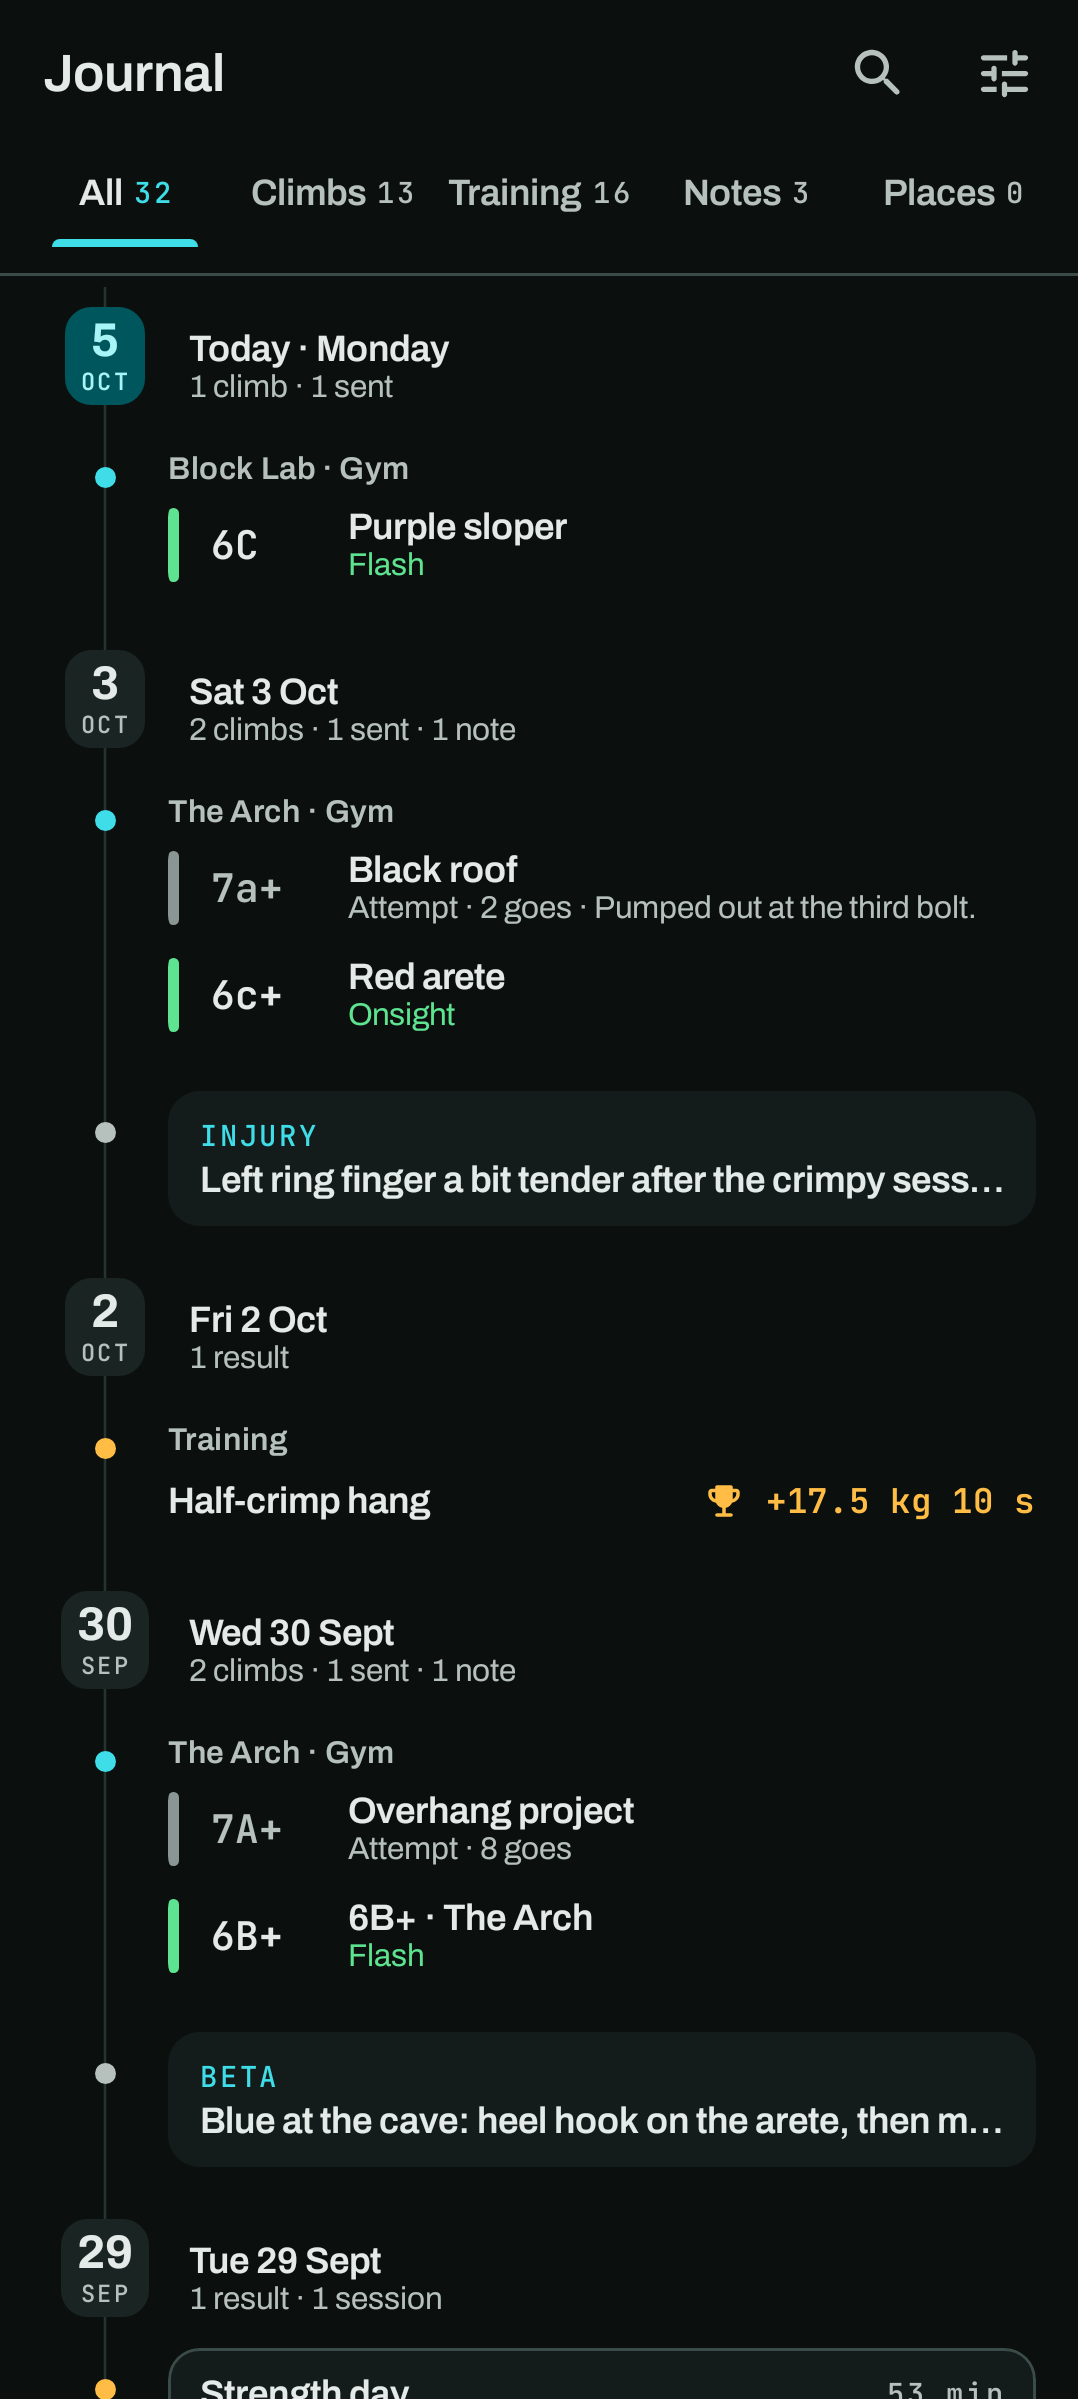
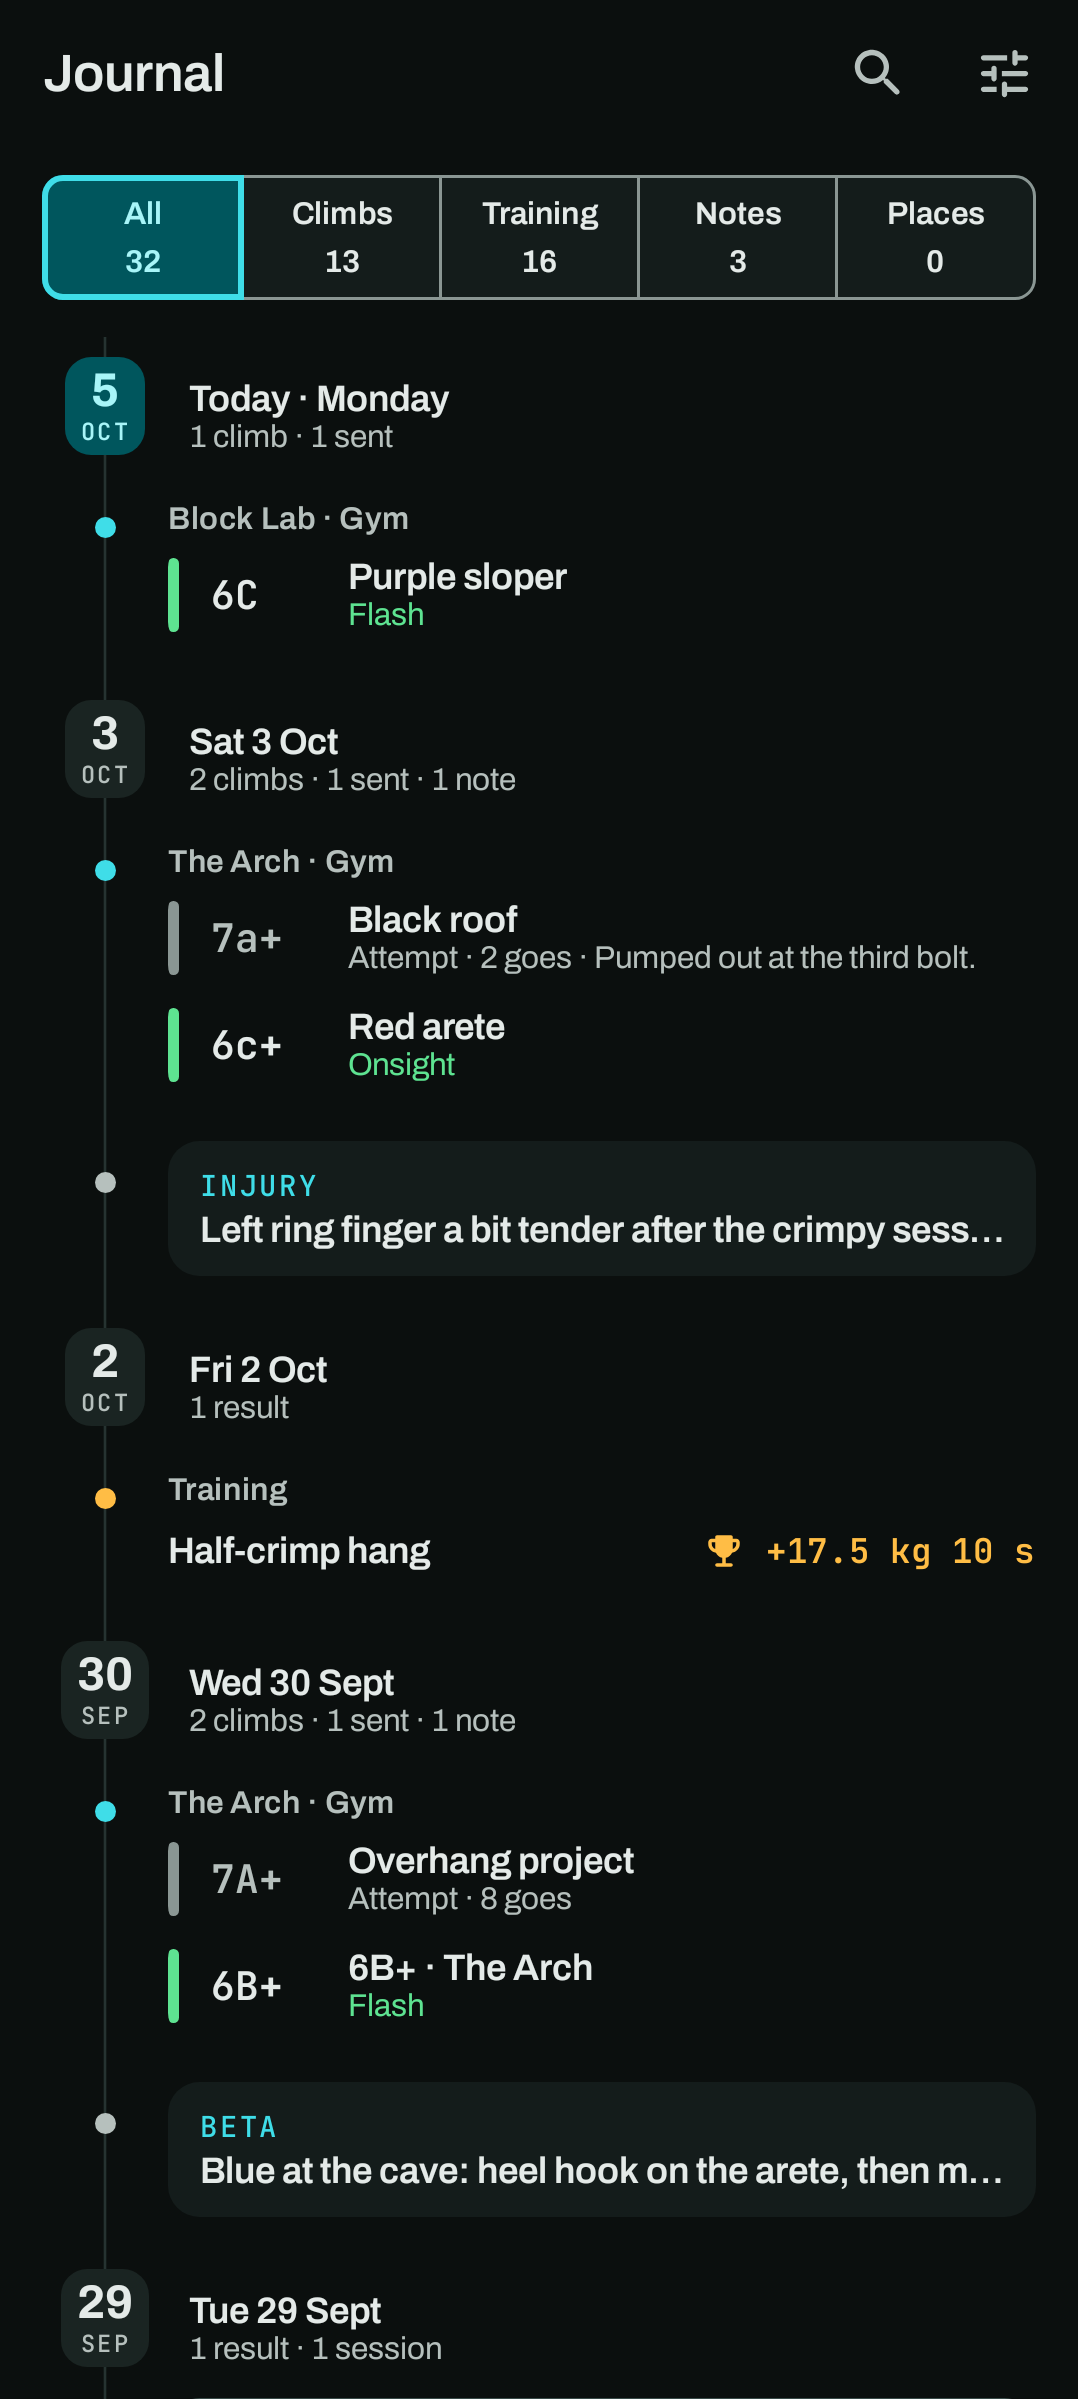
Journal: Train's segmented tabs and plain list swaps, with counts kept

diff --git a/app/src/main/java/com/hardtekpt/crux/ui/journal/JournalScreen.kt b/app/src/main/java/com/hardtekpt/crux/ui/journal/JournalScreen.kt
@@ -90,6 +90,7 @@ import com.hardtekpt.crux.ui.components.AnimatedCount
 import com.hardtekpt.crux.ui.components.CruxButton
 import com.hardtekpt.crux.ui.components.CruxFilterChip
 import com.hardtekpt.crux.ui.components.CruxMotion
+import com.hardtekpt.crux.ui.components.CruxSegmentedButtons
 import com.hardtekpt.crux.ui.components.CruxSheet
 import com.hardtekpt.crux.ui.components.CruxTopAppBar
 import com.hardtekpt.crux.ui.components.EmptyState
@@ -310,7 +311,16 @@ fun JournalContent(
             )
             return
         }
-        TypeTabs(uiState, placeCount = places?.size ?: 0, onSelect = { kind -> onQuery { it.copy(kind = kind) } })
+        // The same tabs as Train: segmented buttons, and the list swaps without animation.
+        CruxSegmentedButtons(
+            options = JournalFilter.entries,
+            selected = uiState.query.kind,
+            label = { option -> "${option.label}\n${if (option == JournalFilter.Places) places?.size ?: 0 else uiState.counts[option] ?: 0}" },
+            onSelect = { kind -> onQuery { it.copy(kind = kind) } },
+            modifier = Modifier.padding(horizontal = space.s4, vertical = space.s2),
+            tagOf = { "journal_filter_${it.name}" },
+            compact = true,
+        )
         // Places: the gyms, crags and boards you climb at, with New place, in place of the timeline.
         if (uiState.query.kind == JournalFilter.Places) {
             LazyColumn(
@@ -349,19 +359,14 @@ fun JournalContent(
             }
             uiState.days.forEach { day ->
                 item(key = "day_${day.date}", contentType = "day") {
-                    Box(Modifier.animateItem(fadeInSpec = CruxMotion.medium(), placementSpec = CruxMotion.medium(), fadeOutSpec = CruxMotion.fast())) {
-                        DayHeader(day, today = day.date == uiState.today)
-                    }
+                    DayHeader(day, today = day.date == uiState.today)
                 }
                 items(day.entries, key = { it.key }, contentType = { it::class }) { entry ->
-                    // Entries slide into place and fade when a tab, search or filter changes the list.
-                    Box(Modifier.animateItem(fadeInSpec = CruxMotion.medium(), placementSpec = CruxMotion.medium(), fadeOutSpec = CruxMotion.fast())) {
-                        when (entry) {
-                            is TimelineEntry.Climbs -> ClimbsEntry(entry.day, actions.openClimb, selection)
-                            is TimelineEntry.Training -> TrainingEntry(entry, actions.openRecords)
-                            is TimelineEntry.SessionEntry -> SessionEntryRow(entry.session, actions.openClimb) { actions.openSession(entry.session.id) }
-                            is TimelineEntry.NoteEntry -> NoteEntry(entry.note, selection) { actions.openNote(entry.note.id) }
-                        }
+                    when (entry) {
+                        is TimelineEntry.Climbs -> ClimbsEntry(entry.day, actions.openClimb, selection)
+                        is TimelineEntry.Training -> TrainingEntry(entry, actions.openRecords)
+                        is TimelineEntry.SessionEntry -> SessionEntryRow(entry.session, actions.openClimb) { actions.openSession(entry.session.id) }
+                        is TimelineEntry.NoteEntry -> NoteEntry(entry.note, selection) { actions.openNote(entry.note.id) }
                     }
                 }
             }
@@ -464,74 +469,6 @@ private fun daySummary(day: TimelineDay): String {
         notes.takeIf { it > 0 }?.let { "$it ${if (it == 1) "note" else "notes"}" },
         sessions.takeIf { it > 0 }?.let { "$it ${if (it == 1) "session" else "sessions"}" },
     ).joinToString(" · ")
-}
-
-/** The four types as equal tabs with live counts, the picked one underlined. */
-@Composable
-private fun TypeTabs(uiState: JournalUiState, placeCount: Int = 0, onSelect: (JournalFilter) -> Unit) {
-    val colors = MaterialTheme.colorScheme
-    Column {
-        Row(
-            modifier = Modifier
-                .fillMaxWidth()
-                .padding(horizontal = CruxTheme.space.s2)
-                .selectableGroup()
-                .testTag("journal_filters"),
-        ) {
-            JournalFilter.entries.forEach { option ->
-                val selected = option == uiState.query.kind
-                Column(
-                    horizontalAlignment = Alignment.CenterHorizontally,
-                    modifier = Modifier
-                        .weight(1f)
-                        .heightIn(min = 48.dp)
-                        .selectable(selected = selected, role = Role.Tab, onClick = { onSelect(option) })
-                        .testTag("journal_filter_${option.name}"),
-                ) {
-                    Row(
-                        verticalAlignment = Alignment.CenterVertically,
-                        horizontalArrangement = Arrangement.spacedBy(4.dp),
-                        modifier = Modifier.padding(top = 10.dp, bottom = 10.dp),
-                    ) {
-                        val label by androidx.compose.animation.animateColorAsState(
-                            if (selected) colors.onSurface else colors.onSurfaceVariant,
-                            CruxMotion.fast(),
-                            label = "tab",
-                        )
-                        val count by androidx.compose.animation.animateColorAsState(
-                            if (selected) colors.primary else colors.onSurfaceVariant,
-                            CruxMotion.fast(),
-                            label = "tabCount",
-                        )
-                        Text(option.label, style = MaterialTheme.typography.titleSmall, color = label, maxLines = 1)
-                        AnimatedCount(
-                            (if (option == JournalFilter.Places) placeCount else uiState.counts[option] ?: 0).toString(),
-                            style = MonoLabel,
-                            color = count,
-                        )
-                    }
-                    val underline by androidx.compose.animation.animateColorAsState(
-                        if (selected) colors.primary else Color.Transparent,
-                        CruxMotion.fast(),
-                        label = "underline",
-                    )
-                    val width by androidx.compose.animation.core.animateFloatAsState(
-                        if (selected) 0.7f else 0.2f,
-                        CruxMotion.medium(),
-                        label = "underlineWidth",
-                    )
-                    Box(
-                        Modifier
-                            .fillMaxWidth(width)
-                            .height(3.dp)
-                            .clip(RoundedCornerShape(topStart = 3.dp, topEnd = 3.dp))
-                            .background(underline),
-                    )
-                }
-            }
-        }
-        Box(Modifier.fillMaxWidth().height(CruxTheme.size.borderHairline).background(colors.outlineVariant))
-    }
 }
 
 /** What the sheet has set, each as a chip that removes itself, then Clear all. */

diff --git a/app/src/main/java/com/hardtekpt/crux/ui/components/Inputs.kt b/app/src/main/java/com/hardtekpt/crux/ui/components/Inputs.kt
@@ -166,11 +166,23 @@ private fun Swatch(on: Boolean, color: Color, label: String, onClick: () -> Unit
     }
 }
 
-/** Two to four views of the same thing; exactly one is selected. */
+/** Two to five views of the same thing; exactly one is selected. */
 @Composable
-fun <T> CruxSegmentedButtons(options: List<T>, selected: T, label: (T) -> String, onSelect: (T) -> Unit, modifier: Modifier = Modifier) {
+fun <T> CruxSegmentedButtons(
+    options: List<T>,
+    selected: T,
+    label: (T) -> String,
+    onSelect: (T) -> Unit,
+    modifier: Modifier = Modifier,
+    /** The test tag of a segment, when its label changes (a count in it). */
+    tagOf: (T) -> String = { "segment_${label(it)}" },
+    /** For rows of five: the label may use two lines (a name over a count) at one size, with a taller row. */
+    compact: Boolean = false,
+) {
     val colors = MaterialTheme.colorScheme
-    SingleChoiceSegmentedButtonRow(modifier = modifier.fillMaxWidth().height(CruxTheme.size.controlHeight)) {
+    SingleChoiceSegmentedButtonRow(
+        modifier = modifier.fillMaxWidth().height(if (compact) CruxTheme.size.controlHeight + 12.dp else CruxTheme.size.controlHeight),
+    ) {
         options.forEachIndexed { index, option ->
             SegmentedButton(
                 selected = option == selected,
@@ -198,9 +210,13 @@ fun <T> CruxSegmentedButtons(options: List<T>, selected: T, label: (T) -> String
                 // Large text sizes shrink a long label to fit rather than cut it off.
                 label = {
                     val style = MaterialTheme.typography.labelLarge
-                    Text(label(option), style = style, maxLines = 1, autoSize = TextAutoSize.StepBased(minFontSize = 8.sp, maxFontSize = style.fontSize))
+                    if (compact) {
+                        Text(label(option), style = style.copy(fontSize = 12.sp), maxLines = 2, textAlign = androidx.compose.ui.text.style.TextAlign.Center)
+                    } else {
+                        Text(label(option), style = style, maxLines = 1, autoSize = TextAutoSize.StepBased(minFontSize = 8.sp, maxFontSize = style.fontSize))
+                    }
                 },
-                modifier = Modifier.testTag("segment_${label(option)}"),
+                modifier = Modifier.testTag(tagOf(option)),
             )
         }
     }

diff --git a/CHANGELOG.md b/CHANGELOG.md
@@ -31,6 +31,7 @@ and versions follow [Semantic Versioning](https://semver.org/). Each release als
 
 ### Changed
 
+- **Journal tabs work like Train's**: the Journal's tabs are now the same segmented buttons as Train, still with their counts, and the list swaps without the sliding and fading. Swiping sideways still moves between them.
 - **Weight only on Measurements**: the weight card is gone from the You page, since it is on Measurements. The Measurements row in More about you now shows your latest weight and how it moved.
 - **New name and icon**: the app is now **Climb Logger**, with a new icon of a mountain and a rising progress line (it has a themed version for Android 13+). The package is the same, so it installs over the old app and your data is untouched.
 - **Choose a climb in Log climb**: the climb chips under Name are gone. A **Choose a climb** button opens a sheet

diff --git a/docs/user/journal.md b/docs/user/journal.md
@@ -14,7 +14,7 @@ with **New place**; tap one to open it. See [Places](places.md).
 
 Days run newest first, each with a date tile and a tally; today's tile is filled in the accent.
 
-- **Tabs**: *All*, *Climbs*, *Training* or *Notes*, each with a count. Swipe sideways to move
+- **Tabs**: *All*, *Climbs*, *Training*, *Notes* or *Places*, each with a count, as segmented buttons like Train's. Swipe sideways to move
   between them.
 - **Search** (the magnifier in the top bar): finds climbs, places and notes by text. The back
   arrow clears the search and closes it.
